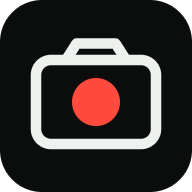
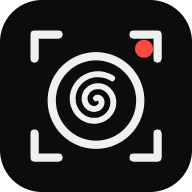
정수리 Cam 로고·파비콘·설치 아이콘, 빨간 점 깜빡임, 버튼 이름 정리

Changed region(s): [[0.1562, 0.1562, 0.8438, 0.8438]]

diff --git a/index.html b/index.html
@@ -6,7 +6,8 @@
 <meta name="theme-color" content="#0b0d0c">
 <title>정수리 Cam</title>
 <link rel="manifest" href="manifest.webmanifest">
-<link rel="icon" href="icon.svg">
+<link rel="icon" href="favicon.svg" type="image/svg+xml">
+<link rel="icon" href="icon-192.png" sizes="192x192" type="image/png">
 <link rel="apple-touch-icon" href="icon-192.png">
 <link rel="stylesheet" href="https://cdn.jsdelivr.net/gh/orioncactus/pretendard@v1.3.9/dist/web/static/pretendard.min.css">
 <style>
@@ -30,7 +31,8 @@ button:focus-visible,input:focus-visible{outline:2px solid var(--rec);outline-of
 #home{overflow-y:auto;padding-left:max(20px,env(safe-area-inset-left));padding-right:max(20px,env(safe-area-inset-right))}
 .home-main{flex:1 0 auto;display:flex;flex-direction:column;justify-content:center;gap:24px;width:100%;max-width:480px;margin:0 auto;padding:32px 0 24px}
 .brand{display:flex;align-items:center;gap:10px;font-size:28px;font-weight:800;letter-spacing:-.02em;line-height:1.2}
-.dot{flex:none;width:12px;height:12px;border-radius:50%;background:var(--rec);box-shadow:0 0 12px var(--rec)}
+.dot{flex:none;width:12px;height:12px;border-radius:50%;background:var(--rec);box-shadow:0 0 12px var(--rec);animation:rec 1.4s ease-in-out infinite}
+@keyframes rec{0%,100%{opacity:1}50%{opacity:.15;box-shadow:none}}
 .lead,.foot,.help,.role span{font-size:14px;line-height:1.6;color:var(--dim);margin:0}
 .roles{display:grid;gap:12px}
 .role{display:flex;align-items:center;gap:16px;text-align:left;padding:20px;border-radius:18px;background:var(--panel);border:1px solid var(--line)}
@@ -132,7 +134,7 @@ video{position:absolute;inset:0;width:100%;height:100%;object-fit:cover;backgrou
 
 .toast{position:fixed;left:50%;bottom:calc(150px + env(safe-area-inset-bottom,0));transform:translateX(-50%);background:rgba(22,26,24,.95);
   border:1px solid var(--line);padding:10px 16px;border-radius:12px;font-size:14px;z-index:30;max-width:calc(100% - 32px);text-align:center}
-@media (prefers-reduced-motion:reduce){*{animation:none!important;transition:none!important}}
+@media (prefers-reduced-motion:reduce){*:not(.dot){animation:none!important;transition:none!important}}
 </style>
 </head>
 <body>
@@ -145,11 +147,11 @@ video{position:absolute;inset:0;width:100%;height:100%;object-fit:cover;backgrou
   <div class="roles">
     <button class="role" id="pickCam">
       <svg viewBox="0 0 24 24" fill="none" stroke="#ff4a3d" stroke-width="1.6"><rect x="2.5" y="6.5" width="19" height="13" rx="2.5"/><circle cx="12" cy="13" r="4"/><path d="M8 6.5 9.5 4h5L16 6.5"/></svg>
-      <div><b>카메라 폰으로</b><span>머리 위에 들고 정수리를 비추는 폰</span></div>
+      <div><b>카메라 폰</b><span>머리 위에 들고 정수리를 비추는 폰</span></div>
     </button>
     <button class="role" id="pickMon">
       <svg viewBox="0 0 24 24" fill="none" stroke="#eef1ee" stroke-width="1.6"><rect x="6" y="2.5" width="12" height="19" rx="2.5"/><path d="M10 18.5h4"/><circle cx="12" cy="10" r="3"/></svg>
-      <div><b>모니터 폰으로</b><span>손에 들고 화면을 보며 촬영하는 폰</span></div>
+      <div><b>모니터 폰</b><span>손에 들고 화면을 보며 촬영하는 폰</span></div>
     </button>
   </div>
   <p class="foot">카메라폰에 뜬 QR을 모니터폰 기본 카메라로 찍으면 바로 연결됩니다. 영상과 사진은 서버를 거치지 않고 두 폰 사이에서 직접 오갑니다. 같은 와이파이에 있으면 가장 빠릅니다.</p>

diff --git a/sw.js b/sw.js
@@ -1,5 +1,5 @@
 /* 탈모모니터링Cam 서비스워커: 앱 설치용. 화면 파일만 보관하고 사진은 저장하지 않음 */
-const CACHE = 'tmcam-v3';
+const CACHE = 'tmcam-v4';
 const SHELL = ['./', './index.html', './app.js', './manifest.webmanifest', './icon-192.png', './icon-512.png',
   'https://cdn.jsdelivr.net/npm/peerjs@1.5.4/dist/peerjs.min.js',
   'https://cdn.jsdelivr.net/npm/qrcode-generator@1.4.4/qrcode.js'];
